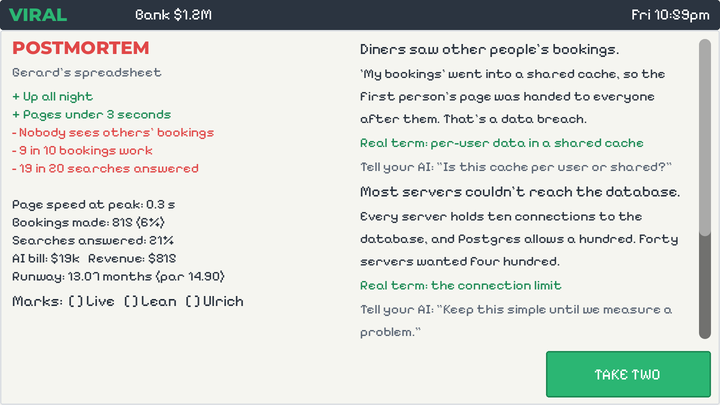
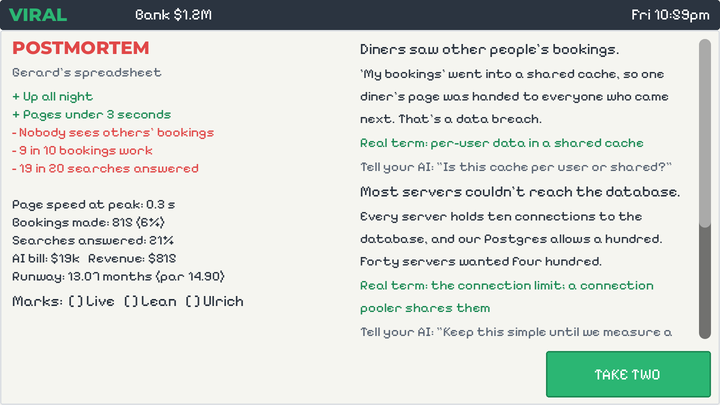
Mission Silicon: technical review of Episode 8's content
Check every claim the player sees against official docs (REVIEW.md) and
fix the ones that weren't true: the queue no longer defers password
hashing, the CDN serves photos and scripts (not pages), the hotfix quotes
the real price for the chosen server size, the codex cards drop their
absolutes, the Scaling card cites a source covering all of it, and a few
postmortem lines now hold in every plan. Simulation numbers unchanged.

Changed region(s): [[0.4889, 0.1778, 0.9472, 0.3259], [0.4889, 0.6815, 0.9472, 0.8296], [0.4889, 0.563, 1.0, 0.6815]]

diff --git a/games/mission-silicon/REVIEW.md b/games/mission-silicon/REVIEW.md
@@ -1,0 +1,140 @@
+# Technical review: Episode 8 (*Viral*)
+
+Handoff step 5. Every technical claim a player can see in Episode 8 (`data/season.json`, `data/pieces.json`, the board's bubbles and the screens' fixed text), plus the CURRICULUM.md modules it covers (7, Caching; 9, Scaling), checked against the curriculum's rule: **simplify, never falsify**. The simulation's numbers are illustrative; only their shapes have to be real. Reviewed November 2026.
+
+Verdicts: **True** (stands as written), **Fixed** (was wrong or misleading; changed), **Narrative** (a character's opinion or the story, not a claim the game makes; checked that the game doesn't endorse anything false).
+
+## Sources
+
+| Key | Source |
+| --- | --- |
+| MDN | [HTTP caching](https://developer.mozilla.org/en-US/docs/Web/HTTP/Guides/Caching), MDN: fresh and stale, `max-age`, private vs shared caches, personalised responses need `private` |
+| AZ | [Design to scale out](https://learn.microsoft.com/en-us/azure/architecture/guide/design-principles/scale-out), Azure Architecture Center: identify bottlenecks first ("if your backend database is the bottleneck, it won't help to add more web servers"), avoid session stickiness and in-memory session state, offload emails to async work, queues absorb spikes |
+| 12F | [VI. Processes](https://12factor.net/processes), The Twelve-Factor App: stateless processes; session state in a time-expiring store such as Redis; sticky sessions should never be relied on |
+| PG | [Connections and authentication](https://www.postgresql.org/docs/current/runtime-config-connection.html), PostgreSQL docs: `max_connections` "is typically 100"; at most that many connections at once, last few reserved for superusers |
+| PGI | [Indexes](https://www.postgresql.org/docs/current/indexes-intro.html), PostgreSQL docs: without an index the system scans the whole table; an index finds matching rows directly |
+| PGB | [PgBouncer](https://www.pgbouncer.org/), a connection pooler for PostgreSQL |
+| AP | [Prompt caching](https://platform.claude.com/docs/en/build-with-claude/prompt-caching), Anthropic: cache reads at 0.1x base input price (less on some models), the cached part is the prompt's prefix and must match exactly |
+| AR | [Rate limits](https://platform.claude.com/docs/en/api/rate-limits), Anthropic: limits per minute (requests and tokens), exceeding them returns HTTP 429; prompt caching raises effective throughput |
+| 429 | [429 Too Many Requests](https://developer.mozilla.org/en-US/docs/Web/HTTP/Reference/Status/429), MDN |
+| GDPR | [GDPR Article 4(12)](https://gdpr-info.eu/art-4-gdpr/): a personal data breach includes accidental unauthorised disclosure of personal data |
+| TTL | Jung, Berger, Balakrishnan, *Modeling TTL-based Internet caches*, IEEE INFOCOM 2003: per-key hit rate λT/(1+λT) under Poisson arrivals |
+
+## The simulation's shapes (GAME.md, sim/sim.gd)
+
+| Shape | Verdict | Notes |
+| --- | --- | --- |
+| Latency `base / (1 − u)` below capacity, backlog above | True | The M/M/1 response-time curve; standard queueing |
+| Cache hit rate x/(1+x), x = λT/K | True, doc **Fixed** | Exact for a TTL cache filled on a miss with Poisson arrivals and evenly popular keys (TTL). GAME.md now says "evenly popular keys" and that real, skewed traffic only raises the hit rate |
+| Stale share 1 − (1 − e^(−μT))/(μT) | True | Hits fall evenly over the TTL window; each key changes as a Poisson process at μ; averaging P(changed by age a) over a ∈ [0, T] gives this |
+| Shared copy of per-user data leaks on every hit | True | MDN: personalised responses belong in a private cache; same for an app cache whose key leaves out the user |
+| Sessions in memory, N servers: logged out with probability 1 − 1/N | True | With even (non-sticky) balancing. AZ and 12F both say keep sessions out of server memory |
+| 10 connections per server against Postgres's 100 | True | PG: default typically 100 (managed hosts often size it by instance memory; the game's text now says "our Postgres") |
+| Calls above a per-minute cap fail with 429 | True | AR, 429. Real providers also cap tokens per minute; the game counts calls only, a lossy but not false simplification |
+| Prompt caching bills the fixed part at a tenth | True | AP: 0.1x on most models (cache writes cost 1.25x, ignored here since the cache stays warm all night) |
+| Scan cost grows with rows; an index makes it constant | True | PGI (an index lookup grows very slowly, roughly log n; "constant" is fine at this scale) |
+| Garage server overheats and shuts down | True | Thermal shutdown is a real protective behaviour of server hardware |
+
+## Episode 8 text
+
+### Cold open, brief, cliffhanger
+
+All Narrative (the viral post, the garage, sign-up counts). Nothing technical claimed beyond "the garage won't make it", which the simulation bears out.
+
+### Pull request cards (`plain`) and takes
+
+| Card | Claim | Verdict | Change |
+| --- | --- | --- | --- |
+| Move to the cloud | Rent an app server and managed Postgres | True | |
+| Kubernetes | Twelve services on a container cluster | True (as a description of the proposal); Ricky's and Gilroy's takes Narrative, and the game judges against it | |
+| Add a cache | "the database isn't asked the same thing twice" | **Fixed** | A TTL cache still asks once per key per TTL. Now "over and over" |
+| Add a cache, takes | Danesh: caches make everything faster | Narrative | The misconception the curriculum names; Gilroy rebuts it and the night punishes it |
+| CDN | "Serve photos, scripts and pages from servers near each diner" | **Fixed** | Forkcast's pages hold per-diner data, and the simulation only moves photos and scripts off the app. Now "photos and scripts". Gerard's take was about menus going stale on the CDN; now about photos |
+| Queue sign-ups | Queue "new sign-ups"; Gerard: password hashing is slow on purpose, so queue it | **Fixed** | Hashing is deliberately slow (true), but deferring it to a worker means putting plain-text passwords in a queue, which is a security mistake, and the account wouldn't exist until the worker ran. The slow, deferrable work is the welcome email, an outside call that holds a server (AZ: "tasks like sending emails" are what to offload). Label now "Queue sign-up work"; text, Gerard's take, the corner line and the postmortem finding now about welcome emails. The simulation's numbers are unchanged |
+| Rewrite in Rust | Rust is fast; Gilroy: the app is waiting on the database | True | AZ (bottlenecks); the bottleneck ask shows the database at 100% |
+| Forty servers | Every one talks to the same database | True | PG |
+| Add an index | Index on bookings by restaurant and night, so it doesn't read every booking | True | PGI. Ricky's "like the index in a book" is the docs' own analogy |
+| Cache AI answers | Answer cache plus prompt caching, "the long fixed part of each prompt billed at a fraction" | **Fixed** (tightened) | AP: only an identical prefix is cached. Now "the long fixed start of each prompt" |
+| Shard by city | Split the database by city | True; Aleister's and Gerard's takes Narrative | |
+| Biggest model | Five times the price per answer | True as illustration | Top-tier models have cost around five times mid-tier per token |
+
+### Asks
+
+| Ask | Verdict | Notes |
+| --- | --- | --- |
+| Where's the bottleneck? | True | Full scan of every booking; index is the fix (PGI, AZ) |
+| How stale can this be? | True | Matches the data: menus 0.04 changes an hour (about daily), tables 30 an hour (every two minutes), my bookings per person |
+| Is this cache per user or shared? | True | MDN |
+| What will this cost at 10x? | True | Providers cap calls a minute (AR). "Four fifths of the bill" is Narrative |
+| Make it web-scale / Use the smartest model (decoys) | Narrative | The game judges them as overbuilt |
+
+### Dials, hotfix, live moment
+
+| Item | Verdict | Change |
+| --- | --- | --- |
+| Sessions in memory or in Redis | True | 12F names Redis for session state |
+| TTL options, shared or per user | True | |
+| Hotfix: "add another app server? It's $300 a month." | **Fixed** | The server added is the size already chosen; at the solution's small size it's $150, so the line was wrong in the winning plan. The line now carries `{monthly}`, filled in by `scenes/episode.gd` from what keeping the hotfix adds to the bill |
+| Banners (12,000 diners, the post, easing off) | True | Match `live.diners` |
+| Corner: stale tables, "People are booking tables that were booked a minute ago" | **Fixed** | A stale table fails at booking time ("sorry, just taken"); they don't get it. Now "People keep picking tables that went a minute ago." |
+| Corner: "Fifteen thousand sign-ups, all hashing passwords at once." | **Fixed** | Now "all waiting on welcome emails" (see the queue card) |
+| Other corner lines | True or Narrative | Forty servers × 10 vs 100 connections is PG; 429s is AR |
+| Bubbles (`ui/board.gd`): "Full table scan", "Too many connections", "429: rate limited", "Logged out?!" | True | PG's own error is "too many clients already"; "too many connections" is the common name (MySQL's literal one). Kept |
+| Staging: "Some problems only show up at full load." | True | |
+
+### Postmortem findings
+
+| Tag | Verdict | Change |
+| --- | --- | --- |
+| garage_melt (single point of failure) | True | |
+| full_scan | True | PGI; Postgres calls it a sequential scan, "full table scan" is the general term |
+| no_cache | True | |
+| db_overload, title "The database ran out of room." | **Fixed** | "Room" reads as disk space; the problem is throughput. Now "The database couldn't keep up." |
+| app_overload, "When the chef posted again, traffic doubled and the app servers couldn't keep up." | **Fixed** | The finding also fires for plans that overload before the post (one small server, say), where it was untrue. Now "More traffic arrived than the app servers could handle, so pages crawled and then failed." |
+| no_cdn ("photos and scripts are most of what a page weighs") | True | Images and JavaScript dominate page weight on the web |
+| no_queue | **Fixed** | Was about deferring password hashing; now the welcome email, a slow call to an email service holding a server |
+| stale_tables | True | |
+| cache_leak, "the first person's page was handed to everyone after them" | **Fixed** | With a TTL the copy expires and the next diner's page takes over. Now "one diner's page was handed to everyone who came next". "That's a data breach": True (GDPR) |
+| stateless | True | 12F, AZ |
+| too_many_connections, "Postgres allows a hundred" | **Fixed** | A default, and managed hosts often set it otherwise: now "our Postgres allows a hundred". Term now also names the real fix, "a connection pooler shares them" (PGB; the curriculum's Module 9 covers pooling). Tell-your-AI kept: the lesson is Ulrich's forty servers |
+| rate_limited (429) | True | AR, 429 |
+| ai_bill, big_model, overbuilt | True | Fire only when the bill really is five figures, the big model was kept, or the plan passed below par |
+
+### Codex cards and sources
+
+| Card | Verdict | Change |
+| --- | --- | --- |
+| Cache: "per-user data never goes in a shared cache" | **Fixed** | Redis is shared by every server, and per-user data in it is fine when keyed by user (the solution does exactly that). Now "per-user data is cached per user, never shared". Source MDN: works, supports freshness, staleness and private vs shared |
+| Scaling: load balancing "only works if they're stateless" | **Fixed** | Sticky sessions do make it work, badly; the true rule is that any server should be able to take any request. Now "kept stateless so any of them can take any request". Source changed from 12F (stateless only) to AZ, which supports every part of the card: bottleneck first, scale out, no stickiness |
+
+### `data/pieces.json` (shown when a box is tapped)
+
+| Piece | Verdict | Change |
+| --- | --- | --- |
+| Load balancer, "Hands each request to whichever server is free." | **Fixed** | Balancers use round robin, least connections and others; the simulation splits evenly. Now "Hands each request to one of the servers, spreading the load." |
+| Redis, "so the database isn't asked twice" | **Fixed** | Now "again and again" (as the cache card) |
+| CDN, "photos and pages on servers near every diner" | **Fixed** | Now "photos and scripts on servers close to diners" |
+| Model API, "paid per call" | **Fixed** | Model APIs bill by the token (AP, curriculum Module 13). Now "paid by the token"; the simulation's per-call price stands for an average call's tokens |
+| Others (garage, app server, Postgres, queue, diners) | True | |
+
+## CURRICULUM.md, Modules 7 and 9
+
+| Claim | Verdict | Change |
+| --- | --- | --- |
+| Where caches live; hit and miss; TTL and invalidation | True | MDN |
+| "A user's bookings: never in a shared cache" | **Fixed** | Now "cached per user or not at all, never as one shared copy" |
+| Prompt caching, "a cheaper rate for a long prompt that's sent again unchanged" | **Fixed** | Now "the long start of a prompt" (AP: prefix) |
+| Misconceptions: caching isn't free speed; often an index is the fix | True | |
+| Latency vs throughput; vertical and horizontal scaling; load balancer; stateless servers; read replicas; sharding; connection pooling; autoscaling; rate limiting | True | AZ, 12F, PG |
+| "Bottleneck: usually the database, then the network, rarely the language" | True (hedged) | AZ: stateful parts are the most likely bottleneck |
+| Queues smooth spikes: "accept sign-ups into a queue instantly and process them steadily" | **Fixed** | Same problem as the card: now "accept each sign-up quickly and put its slow follow-up work (the welcome email, setting things up) on a queue" |
+| A single decent server with an indexed Postgres handles more than most new apps see; start with a monolith | True (opinion, widely held, hedged with "most") | |
+
+## Simulation and tests
+
+No number changed, so the results table in GAME.md stands (solution 14.94 months, par 14.9) and `tests/check.sh` passes. GAME.md's walk-through was brought in line with the text changes (the queue and CDN rows, the hotfix price, "fifteen thousand sign-ups in twenty minutes" to match `signups.bursts`, which had said "a third in half an hour").
+
+## Left open
+
+- GAME.md says "the codex says once" that numbers are illustrative; the game doesn't yet show that line anywhere. Worth adding when the codex screen exists.
+- GAME.md's decoy row says the biggest model has "twice the wait"; the simulation doesn't model model latency. Design-doc only.

diff --git a/games/mission-silicon/GAME.md b/games/mission-silicon/GAME.md
@@ -87,7 +87,7 @@ Each is a few lines of code, a real effect, and a postmortem tag.
 | --- | --- | --- | --- |
 | **Overheat** | The garage server | Above 80% for 20 ticks it shuts down for 30, failing everything routed through it | `garage_melt` |
 | **Scan cost grows** | Database, per unindexed query | Work per request grows with rows in the table, which grow with bookings during the night | `full_scan` |
-| **Cache** | Redis, CDN, model-answer cache | Per data row: a TTL and a scope (shared, per user, off). For a row with request rate λ over K distinct keys and TTL T, the hit rate is x / (1 + x), with x = λT / K (the exact result for a TTL cache with random arrivals). Hits skip everything behind the cache | |
+| **Cache** | Redis, CDN, model-answer cache | Per data row: a TTL and a scope (shared, per user, off). For a row with request rate λ over K distinct keys and TTL T, the hit rate is x / (1 + x), with x = λT / K (the exact result for a TTL cache with random arrivals and evenly popular keys; real traffic is skewed toward a few popular keys, which only raises the hit rate). Hits skip everything behind the cache | |
 | **Staleness** | Cache rows of data that changes | If each key changes at rate μ, the share of hits that are out of date is 1 − (1 − e^(−μT)) / (μT). A stale "free" table that's actually taken gives the diner "sorry, just taken" at booking time | `stale_tables` |
 | **Shared per-user data** | A cache row of per-user data with shared scope | Every hit shows one diner another's data. Fails the goal outright | `cache_leak` |
 | **Sessions** | App servers | Sessions in server memory with more than one server behind the load balancer: each request lands on a server that doesn't know the diner with probability 1 − 1/N, logging them out | `stateless` |
@@ -251,8 +251,8 @@ Diners' phones → **Aleister** (garage server, running the app and Postgres tog
 | **Move to the cloud**: one app server (M) and managed Postgres | Aleister | 4h | +$700 | Off the garage, room to grow, sessions movable to Redis | Gilroy against (pride, and the bill); Ricky for (the garage is on fire) |
 | **Kubernetes**: twelve microservices on a cluster | Aleister | 40h | +$4,000 | Can't be done in 18 hours, and wouldn't help: one team, one app | Ricky for (it's how Hubbub does it); Gilroy against (twelve things to break instead of one) |
 | **Add a cache** (Redis): one hour for everything | Aleister | 2h | +$100 | Takes load off the database, but its defaults are wrong: tonight's tables go stale, and "My bookings" is shared | Danesh for (speed); Gilroy: a cache is a machine for telling people things that used to be true |
-| **CDN for photos and pages** | Aleister | 1h | +$50 | Photos, scripts and pages served from the edge, not the app | Danesh for; Gerard asks what happens when a menu changes (it's fine: an hour's TTL on menus) |
-| **Queue sign-ups and welcome emails** | Aleister | 3h | +$50 | The 8pm sign-up burst no longer hits the app head-on (password hashing is deliberately slow, and the email is a slow outside call) | Gerard for, earnestly; Danesh: nobody needs their welcome email this second |
+| **CDN for photos** | Aleister | 1h | +$50 | Photos and scripts served from the edge, not the app (the pages themselves still come from the app: they hold per-diner data) | Danesh for; Gerard asks what happens when a restaurant changes its photos (it's fine: they can be an hour old) |
+| **Queue sign-up work**: welcome emails and other chores | Aleister | 3h | +$50 | The 8pm sign-up burst no longer hits the app head-on (sending each welcome email is a slow outside call that would hold a server; the password is still hashed in the request, since a queue must never hold plain-text passwords) | Gerard for, earnestly; Danesh: nobody needs their welcome email this second |
 | **Rewrite booking in Rust** | Aleister | 8h | -$100 | Faster code where the time isn't spent: the app is waiting on the database. Keeping it leaves no time for the fixes the asks turn up | Danesh for (it's what serious people use); Gilroy: you'd be rewriting the part that's waiting |
 | **Forty servers** | Ulrich (wrong) | 1h | +$6,000 | 40 servers × 10 connections = 400, against Postgres's 100: most of them get "too many connections". And sessions are still in memory | Ulrich: Hubbub has forty thousand; Ricky can't get a word in |
 
@@ -281,8 +281,8 @@ Ulrich's line is the Module 9 misconception: more servers means faster.
 | 5:00pm | 0 | 500 diners, quiet. Gilroy's fan if the garage is still in use |
 | 6:30pm | 90 | Dinner rush: 3,000 diners. On the garage, Aleister overheats around here and goes down for half an hour, then again |
 | 7:30pm | 150 | 12,000 diners. Without the index, the database creeps toward 100% as bookings pile up, then times out. Without the CDN, the app drowns in photos |
-| 8:00pm | 180 | **The chef posts again.** 24,000 diners, and a third of the night's 50,000 sign-ups in half an hour. Without the queue, sign-ups swamp the app. Without the AI cache, searches pass the provider's limit and fail with 429s, and the bill races |
-| 8:00pm | 180 | **Hotfix**, the moment the post lands. Aleister: "Traffic just doubled! Add another app server? It's $300 a month." It helps only if sessions are in Redis (otherwise diners start getting logged out) and only if the database isn't the real bottleneck |
+| 8:00pm | 180 | **The chef posts again.** 24,000 diners, and fifteen thousand of the night's 50,000 sign-ups in twenty minutes. Without the queue, sign-ups swamp the app. Without the AI cache, searches pass the provider's limit and fail with 429s, and the bill races |
+| 8:00pm | 180 | **Hotfix**, the moment the post lands. Aleister: "Traffic just doubled! Add another app server? It's $150 a month." (the price of one more server at the size chosen) It helps only if sessions are in Redis (otherwise diners start getting logged out) and only if the database isn't the real bottleneck |
 | 9:00 to 10:30pm | 240 to 330 | Plateau, then falling off. Stale tables show up as "sorry, just taken" at booking time, more with a longer TTL. A shared "My bookings" row leaks from the first hit |
 | 11:00pm | 360 | 1,500 diners. End |
 

diff --git a/games/mission-silicon/CURRICULUM.md b/games/mission-silicon/CURRICULUM.md
@@ -297,8 +297,8 @@ Concepts:
   - **Database cache**: the database keeps hot data in memory itself.
 - **Hit and miss.** A hit finds the answer in the cache; a miss has to fetch it. The **hit rate** is what makes a cache worth it.
 - **Stale data and invalidation.** A copy can go out of date: the cache says the 8pm table is free after someone has booked it. Fixes: a **TTL** (time to live: forget after 60 seconds), or clearing the cached copy whenever the real data changes. Deciding when a copy is too old to trust is famously one of the hard problems in computing.
-- **What's safe to cache.** A restaurant's photos and menu: yes, for hours. Tonight's free tables: for seconds, maybe. A user's bookings or account page: never in a shared cache, or one user sees another's.
-- **Caching AI calls.** Model calls are slow and paid per use (Module 13), so an AI startup caches hard: the same question needn't pay for the same answer twice, and model providers also offer **prompt caching**, a cheaper rate for a long prompt that's sent again unchanged. It's the first fix when the AI bill explodes (Forkcast stage 4).
+- **What's safe to cache.** A restaurant's photos and menu: yes, for hours. Tonight's free tables: for seconds, maybe. A user's bookings or account page: cached per user or not at all, never as one shared copy, or one user sees another's.
+- **Caching AI calls.** Model calls are slow and paid per use (Module 13), so an AI startup caches hard: the same question needn't pay for the same answer twice, and model providers also offer **prompt caching**, a cheaper rate for the long start of a prompt when it's sent again unchanged. It's the first fix when the AI bill explodes (Forkcast stage 4).
 
 Misconceptions:
 - "Caching is free speed." It's speed paid for with the risk of wrong answers.
@@ -349,7 +349,7 @@ Concepts:
   - **Sharding**: splitting data across several databases (each city's bookings on its own). Powerful, complex, a last resort.
   - **Connection pooling**: databases can only hold so many conversations at once; a pool shares them.
 - **CDNs and caches** take load off everything behind them (Module 7).
-- **Queues smooth spikes.** When the launch post goes viral, accept sign-ups into a queue instantly and process them steadily, instead of falling over (Module 5).
+- **Queues smooth spikes.** When the launch post goes viral, accept each sign-up quickly and put its slow follow-up work (the welcome email, setting things up) on a queue that's worked through steadily, instead of falling over (Module 5).
 - **Autoscaling.** Adding and removing servers automatically with demand (serverless does this for you).
 - **Rate limiting.** Capping how many requests one user or bot can make, to protect everyone else.
 

diff --git a/games/mission-silicon/HANDOFF.md b/games/mission-silicon/HANDOFF.md
@@ -66,7 +66,7 @@ In order, each as its own PR:
 2. ~~**Prototype Episode 8**~~: done. The simulation, the data, one scene script, and the checks (`tests/cases.gd`, `coverage.gd`, `smoke.tscn`, `bot.tscn`, all run by `tests/check.sh`). Tuning it against `cases.gd` changed a few numbers in GAME.md's walk-through (two small servers plus a one-server hotfix; par 14.9), and GAME.md now has the results table.
 3. ~~**Wire it into the build**~~: done. `export_presets.cfg`, a block in `scripts/export_web.sh`, `tests/check.sh` in CI, and a page at `/mission-silicon/` (`build_mission_silicon` in `site/build.py`, styled by `site/static/mission-silicon.css`), whose screenshots and social card `tools/site_art.tscn` paints from the bot's shots. Rerun it when the look changes.
 4. ~~**Real assets**~~: done. Montserrat ExtraBold, the cast's close-ups and the backdrops (`tools/art.py`), and the music and stings (`tools/music.py`, played by `core/sound.gd`); see the README. Played through to a postmortem in a browser at a phone held sideways (812×375). That turned up three older bugs, now fixed: full-screen controls were zero-sized, so taps didn't move the dialogue on; Pixelify Sans's "fi" ligature drew as an "A"; and the title's subtitle sat off centre. The web pack went from 153 KB to 1.9 MB, mostly music. New episodes will need their own backdrops: add a prompt to `SCENES` in `tools/art.py`.
-5. **Technical review of the content**: every claim real, per the curriculum's "nothing untrue" rule. The lesson cards carry a `source` each.
+5. ~~**Technical review of the content**~~: done for Episode 8, logged claim by claim in [REVIEW.md](REVIEW.md). No simulation number changed; the text fixes were the queue (it deferred password hashing, which would put plain-text passwords in a queue; now it's the welcome emails), the CDN (photos and scripts, not pages), the hotfix's price (now worked out from the chosen server size), the codex cards' absolutes, and a few finding lines that weren't true in every plan. Each new episode gets the same pass before it merges: add its rows to REVIEW.md, and give each lesson card a `source` that supports every part of it.
 6. **The next episodes**: walk each on paper in GAME.md like Episode 8 (the season sketch is there), then add it to `data/season.json`. The simulation's behaviours table lists what later episodes will need that isn't built yet (retries, races, analytics on the live database, leaked keys, authorization, the agent).
 
 ## Useful references in the repo
